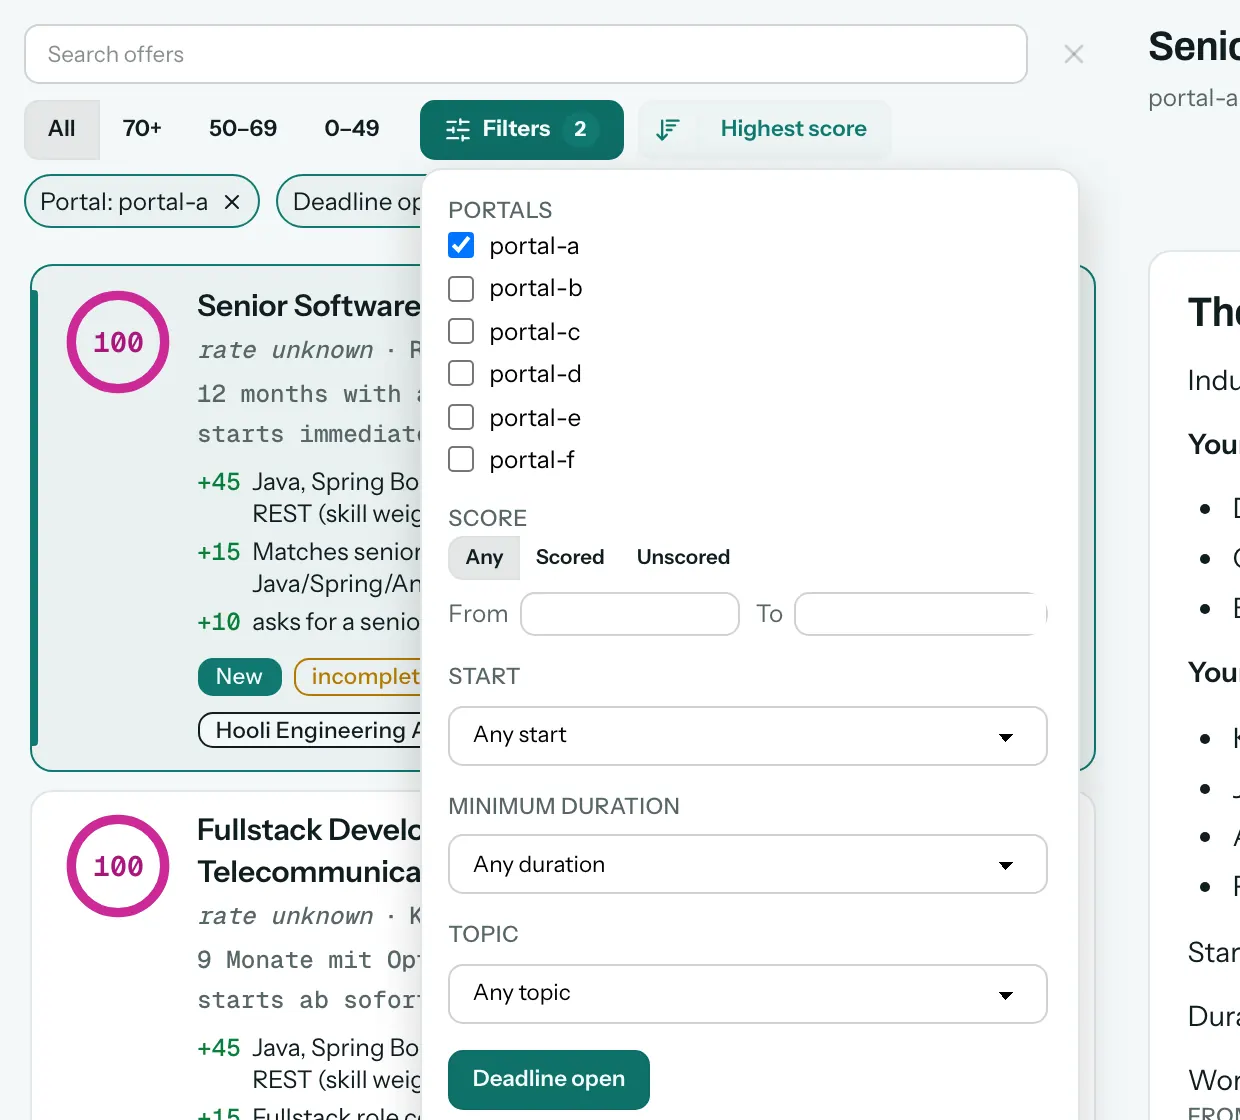
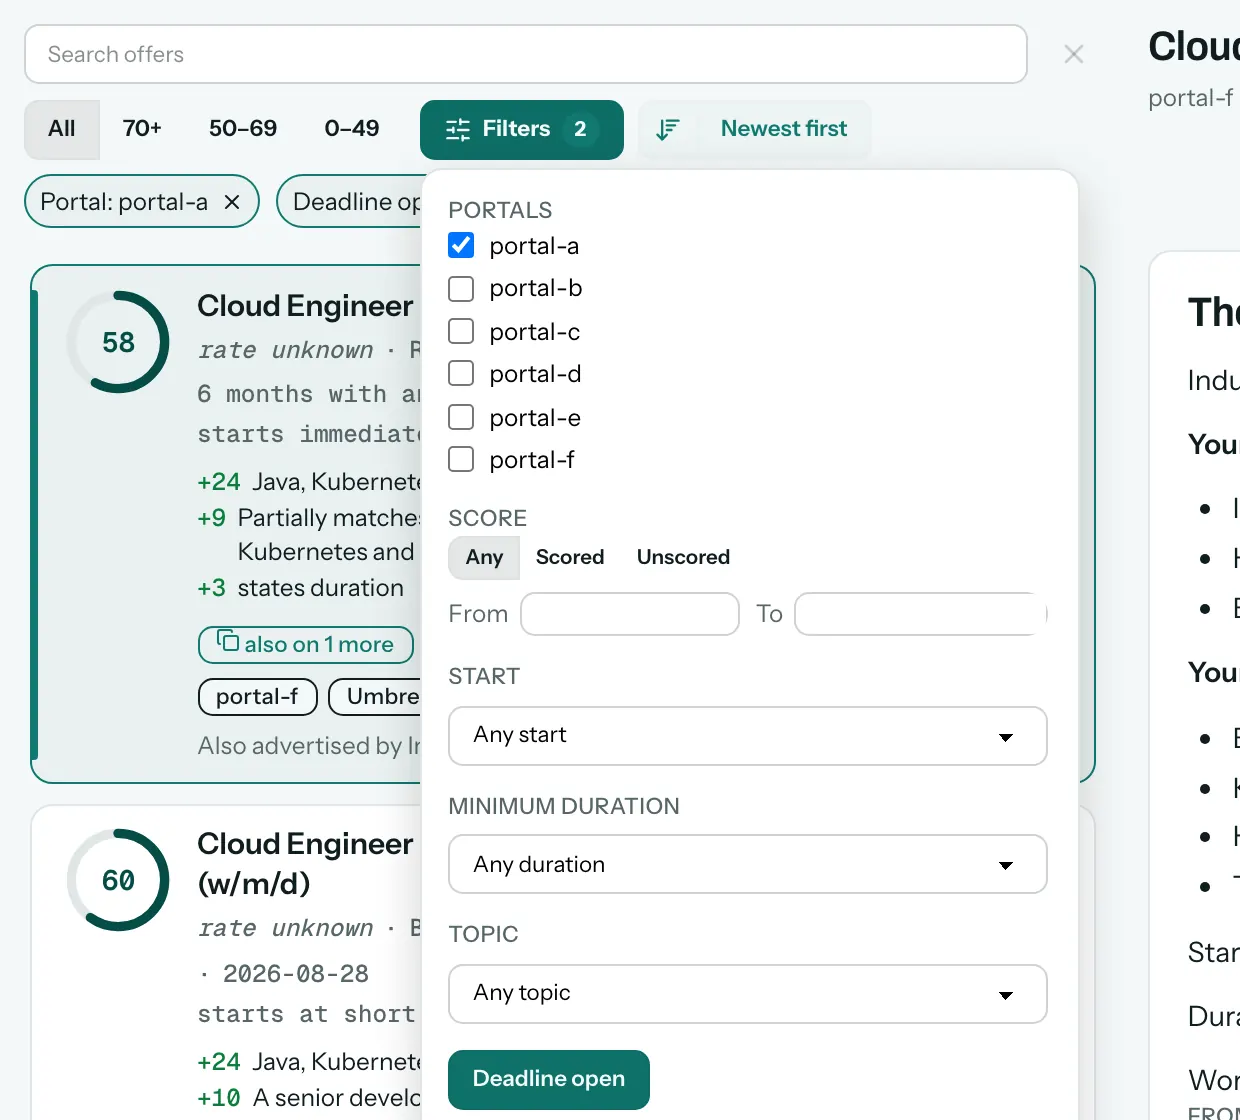
Open the shortlist newest first
What came in since the last look is what a morning visit is for, so the
shortlist's own default sort is now `fresh` and a link without `sort`
means newest first. The API keeps `score` as its default, because the
MCP server and other callers rely on it, so the browser now always sends
the order it wants instead of dropping the default from the request.

Help chapters, the read-side decision record and the changelog say so,
and the help screenshots are retaken to show the new order.

diff --git a/frontend/src/app/features/shortlist/shortlist-page.ts b/frontend/src/app/features/shortlist/shortlist-page.ts
@@ -204,7 +204,7 @@ export class ShortlistPage {
    * clears `entries` and `cursor` on any change here, which is exactly what a sort change
    * needs and what stops a mismatched cursor ever being sent.
    */
-  readonly sort = input('score', {transform: (value: string | undefined) => value ?? 'score'});
+  readonly sort = input('fresh', {transform: (value: string | undefined) => value ?? 'fresh'});
 
   /**
    * When the engagement starts. Four values that partition the set, `unknown` included:
@@ -497,7 +497,7 @@ export class ShortlistPage {
         this.q() !== '' ||
         this.band() !== 'all' ||
         this.archived() ||
-        this.sort() !== 'score' ||
+        this.sort() !== 'fresh' ||
         this.related() !== null ||
         this.facetChips().length > 0,
     );
@@ -833,14 +833,15 @@ export class ShortlistPage {
   }
 
   /**
-   * `''`, `'all'`, `'score'`, `'any'` and `'0'` are the defaults, and a default is dropped
+   * `''`, `'all'`, `'fresh'`, `'any'` and `'0'` are the defaults, and a default is dropped
    * from the URL rather than written into it: a link should say what is unusual about the
-   * view and nothing else.
+   * view and nothing else. The list opens newest first (the operator's call, 2026-09-24): what
+   * came in since the last look is what a morning visit is for.
    *
    * <p>Only the stringy filters go through it. A score bound must not: `'0'` is in this set,
    * and `minScore=0` is a filter somebody asked for.
    */
-  private static readonly DEFAULTS = new Set(['', 'all', 'score', 'any', '0']);
+  private static readonly DEFAULTS = new Set(['', 'all', 'fresh', 'any', '0']);
 
   /**
    * The one writer of the query string.

diff --git a/frontend/src/app/features/shortlist/shortlist-page.spec.ts b/frontend/src/app/features/shortlist/shortlist-page.spec.ts
@@ -137,6 +137,20 @@ describe('ShortlistPage', () => {
         expect(cards(fixture)).toBe(1);
     });
 
+  it('opens newest first, and says so to the server rather than leaving it to the API default', () => {
+    // The API's own default is the score order, which its other callers rely on, so the
+    // screen's default has to be sent; and a link without `sort` means newest first.
+    const fixture = TestBed.createComponent(ShortlistPage);
+    fixture.componentRef.setInput('sort', undefined);
+    fixture.detectChanges();
+
+    const request = expectPage();
+    expect(request.request.params.get('sort')).toBe('fresh');
+    request.flush(page());
+    fixture.detectChanges();
+    expect(fixture.nativeElement.querySelector('.sort-label').textContent.trim()).toBe('Newest first');
+  });
+
     it('offers the band under the review line as the fourth button, from the thresholds', () => {
         // The analogue of the other two: its upper bound is derived from `reviewAt` rather than
         // written, and its id is the band name the server knows.

diff --git a/frontend/src/app/core/api/shortlist.api.ts b/frontend/src/app/core/api/shortlist.api.ts
@@ -51,9 +51,10 @@ export class ShortlistApi {
         if (filters.archived) {
             params = params.set('archived', 'true');
         }
-      // Each behind a not-the-default guard, like the four above: a parameter that means
-      // the default is a second way to say the same thing, and it puts noise in every link.
-      if (filters.sort !== '' && filters.sort !== 'score') {
+      // Always sent, unlike the rest: the screen opens newest first while the API's own default
+      // stays `score`, which the other callers of the endpoint rely on, so leaving the order out
+      // would silently mean a different one.
+      if (filters.sort !== '') {
         params = params.set('sort', filters.sort);
       }
       if (filters.startWindow !== '' && filters.startWindow !== 'any') {

diff --git a/frontend/src/app/core/store/shortlist.store.ts b/frontend/src/app/core/store/shortlist.store.ts
@@ -109,7 +109,7 @@ const NO_FILTERS: ShortlistFilters = {
   scoreState: 'any',
   portals: [],
   archived: false,
-  sort: 'score',
+  sort: 'fresh',
   startWindow: 'any',
   minMonths: 0,
   deadlineOpen: false,

diff --git a/frontend/public/help/de/filters-views.md b/frontend/public/help/de/filters-views.md
@@ -6,7 +6,9 @@ Die Bewertungsbänder wählen **Alle**, die Angebote ab der Auswahl-Schwelle, di
 
 <!-- screenshot: sort-menu -->
 
-Das Sortiermenü bietet fünf Ordnungen: höchste Punktzahl, neueste zuerst, frühester Start, nächste Frist und längste Dauer. Der Schalter davor kehrt die aktuelle Ordnung um. In jeder Ordnung und in beide Richtungen steht ein Angebot, das zum Feld nichts sagt, am Ende, es wird also nie versteckt.
+Das Sortiermenü bietet fünf Ordnungen, beim Öffnen neueste zuerst: höchste Punktzahl, neueste zuerst, frühester Start,
+nächste Frist und längste Dauer. Der Schalter davor kehrt die aktuelle Ordnung um. In jeder Ordnung und in beide
+Richtungen steht ein Angebot, das zum Feld nichts sagt, am Ende, es wird also nie versteckt.
 
 **Sichten** speichert die Liste, wie sie steht, unter einem Namen und bringt sie mit einem Klick zurück. Eine Sicht lebt nur in diesem Browser. **Ähnliche finden** sucht Angebote, die mit anderen Worten dasselbe meinen wie deine Suche, und der Chip, den es hinterlässt, führt zurück. **Archiv** oben zeigt, was die Arbeitsliste verlassen hat; markiere mehrere Angebote mit ihren Kästchen, um sie auf einmal zu archivieren, und jedes archivierte Angebot kann zurück.
 

diff --git a/frontend/public/help/en/filters-views.md b/frontend/public/help/en/filters-views.md
@@ -6,7 +6,9 @@ The score bands pick **All**, the offers at or above the shortlist line, the one
 
 <!-- screenshot: sort-menu -->
 
-The sort menu offers five orders: highest score, newest first, starts soonest, deadline nearest and longest duration. The toggle in front of it turns the current order round. In every order and in both directions, an offer that states nothing about the field comes last, so it is never hidden.
+The sort menu offers five orders, newest first when the list opens: highest score, newest first, starts soonest,
+deadline nearest and longest duration. The toggle in front of it turns the current order round. In every order and in
+both directions, an offer that states nothing about the field comes last, so it is never hidden.
 
 **Views** saves the list as it stands under a name and brings it back with one click. A view lives in this browser only. **Find related** looks for offers that mean the same thing as your search in other words, and the chip it leaves takes you back. **Archive** at the top shows what left the working list; select several offers with their checkboxes to archive them at once, and every archived offer can be put back.
 

diff --git a/docs/decisions/read-side.md b/docs/decisions/read-side.md
@@ -105,6 +105,12 @@ screen reads one of these, and none of them writes.
   `java.sql.Date` binds the same day), `score-asc` to 9999; V30 adds the two date indexes,
   and `fresh-asc` reads the V20 index backwards. `walksEveryReverseAsTheExactMirrorOfItsKey`
   pins each pair.
+- **The screen opens newest first; the API's default stays the score.** What came in since the
+  last look is what a morning visit is for (the operator's call, 2026-09-24), so the shortlist's
+  own default is `fresh` and a link without `sort` means newest first. The API keeps `score` as
+  its default, because the MCP server and any other caller rely on it, which is why the
+  browser sends `sort` on every request instead of leaving the default out as it does for the
+  other filters.
 - **The cursor names its sort, and a mismatch is a 400.** Without the name, a cursor minted
   under `score` with a leading 88 replayed under `start` reads as epoch day 88 and returns
   an arbitrary slice with no error anywhere. The filters need no such guard: they narrow the

diff --git a/CHANGELOG.md b/CHANGELOG.md
@@ -27,6 +27,9 @@ may change in any release. See the status note in the README.
 
 ### Changed
 
+- The shortlist opens newest first rather than by score, so what came in since the last look is
+  on top; a link without `sort` means newest first. The API's default order is unchanged, and
+  the browser now always sends the order it wants.
 - `frontend/nginx.conf` sets a cache policy: `no-cache` on `index.html`, `ngsw.json`, the
   manifest and the worker scripts, `immutable` on the hashed bundles and fonts, and the
   manifest's mime type. The deployed chart carries its own copy of that file and needs the same

diff --git a/frontend/public/help/de/shortlist.md b/frontend/public/help/de/shortlist.md
@@ -1,4 +1,5 @@
-In der Auswahl liest du die Angebote: alles, was den harten Filter passiert hat, sortiert nach Punktzahl. Wählst du links ein Angebot, öffnen sich rechts seine Details; das Kapitel **Angebotsdetail** geht sie durch.
+In der Auswahl liest du die Angebote: alles, was den harten Filter passiert hat, die neuesten zuerst. Wählst du links
+ein Angebot, öffnen sich rechts seine Details; das Kapitel **Angebotsdetail** geht sie durch.
 
 <!-- screenshot: shortlist-split -->
 

diff --git a/frontend/public/help/en/shortlist.md b/frontend/public/help/en/shortlist.md
@@ -1,4 +1,5 @@
-The shortlist is where you read offers: everything that cleared the hard filter, ranked by its score. Pick an offer on the left and its details open on the right; the **Offer detail** chapter walks through them.
+The shortlist is where you read offers: everything that cleared the hard filter, newest first. Pick an offer on the left
+and its details open on the right; the **Offer detail** chapter walks through them.
 
 <!-- screenshot: shortlist-split -->
 
